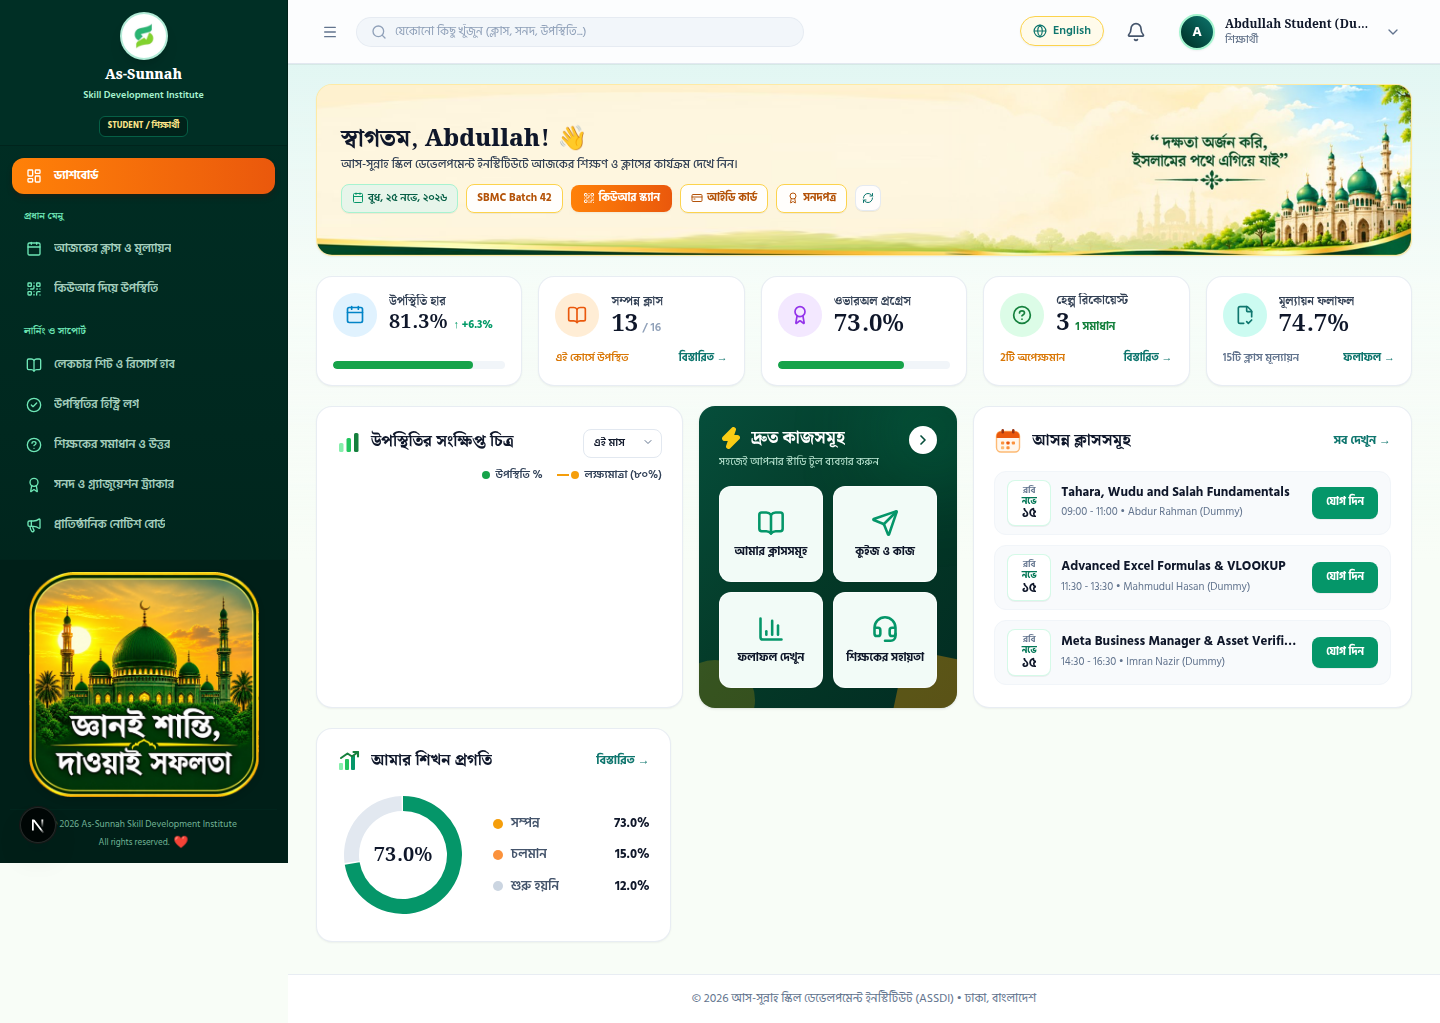
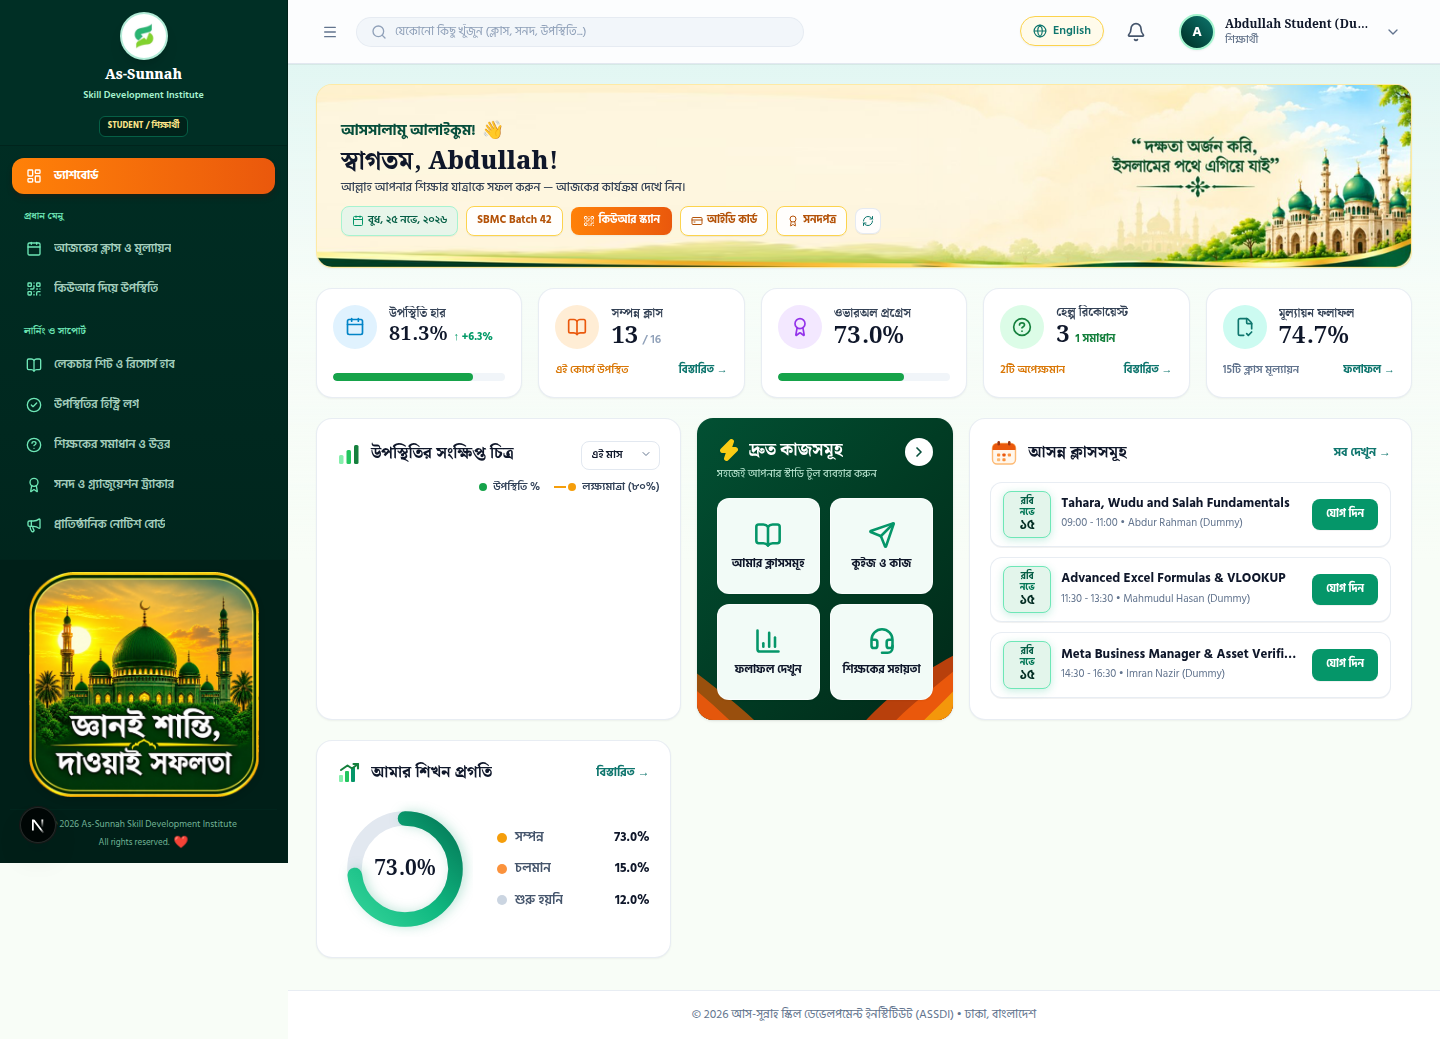
polish(student-ui): exact reference match for Assalamu Alaikum hero, Quick Actions orange curves, green date shadows, and glossy emerald donut

diff --git a/web/src/app/student/page.tsx b/web/src/app/student/page.tsx
@@ -47,9 +47,6 @@ import {
   Tooltip,
   ReferenceLine,
   LabelList,
-  PieChart,
-  Pie,
-  Cell,
 } from 'recharts';
 import WebQRScannerModal from '@/components/student/WebQRScannerModal';
 import StudentIdCardModal from '@/components/student/StudentIdCardModal';
@@ -700,8 +697,8 @@ export default function StudentPortalPage() {
 
   return (
     <div className="space-y-4 sm:space-y-5">
-      {/* Slim Islamic Modern Student Hero Welcome Card (Matching Reference Height) */}
-      <div className="relative rounded-2xl overflow-hidden shadow-xs border border-[#FDE68A]/70 bg-[#FEF6DF] min-h-[152px] lg:min-h-[172px] flex items-center">
+      {/* Slim Islamic Modern Student Hero Welcome Card (Matching Reference Height & Assalamu Alaikum Greeting) */}
+      <div className="relative rounded-2xl overflow-hidden shadow-xs border border-[#FDE68A]/70 bg-[#FEF6DF] min-h-[168px] lg:min-h-[184px] flex items-center">
         <Image
           src="/islamic-hero-banner-slim.png"
           alt="দক্ষতা অর্জন করি, ইসলামের পথে এগিয়ে যাই"
@@ -717,20 +714,22 @@ export default function StudentPortalPage() {
         />
 
         {/* Compact Left Content */}
-        <div className="relative z-10 px-5 py-4 sm:px-6 pb-5 lg:max-w-[62%] w-full">
-          <div className="flex items-center gap-2">
-            <h1 className="text-lg sm:text-xl lg:text-2xl font-extrabold text-[#002F25] tracking-tight font-serif leading-tight">
-              {isBangla ? 'স্বাগতম' : 'Welcome back'}, {profile?.full_name?.split(' ')[0] || user?.full_name?.split(' ')[0] || (isBangla ? 'শিক্ষার্থী' : 'Student')}!
-            </h1>
-            <span className="text-xl sm:text-2xl shrink-0" role="img" aria-label="wave">
+        <div className="relative z-10 px-5 py-4 sm:px-6 lg:max-w-[62%] w-full">
+          <p className="text-sm sm:text-[15px] font-extrabold text-[#064E3B] tracking-tight flex items-center gap-1.5 mb-0.5">
+            <span>{isBangla ? 'আসসালামু আলাইকুম!' : 'Assalamu Alaikum!'}</span>
+            <span className="text-base sm:text-lg" role="img" aria-label="wave">
               👋
             </span>
-          </div>
+          </p>
+
+          <h1 className="text-lg sm:text-xl lg:text-[25px] font-black text-[#0F172A] tracking-tight font-serif leading-tight">
+            {isBangla ? 'স্বাগতম' : 'Welcome back'}, {profile?.full_name?.split(' ')[0] || user?.full_name?.split(' ')[0] || (isBangla ? 'শিক্ষার্থী' : 'Student')}!
+          </h1>
 
           <p className="text-[11px] sm:text-xs text-[#334155] font-medium mt-0.5 leading-snug">
             {isBangla
-              ? 'আস-সুন্নাহ স্কিল ডেভেলপমেন্ট ইনস্টিটিউটে আজকের শিক্ষণ ও ক্লাসের কার্যক্রম দেখে নিন।'
-              : "Here's what's happening at As-Sunnah Skill Development Institute today."}
+              ? 'আল্লাহ আপনার শিক্ষার যাত্রাকে সফল করুন — আজকের কার্যক্রম দেখে নিন।'
+              : 'May Allah make your learning journey successful.'}
           </p>
 
           {/* Compact Single Strip: Date, Batch & Quick Actions */}
@@ -1184,12 +1183,28 @@ export default function StudentPortalPage() {
             </div>
           </div>
 
-          {/* 2. Quick Actions Dark Emerald Card */}
-          <div className="relative overflow-hidden rounded-2xl bg-gradient-to-br from-[#064E3B] via-[#043927] to-[#022C22] p-4 sm:p-5 text-white shadow-sm flex flex-col justify-between">
-            {/* Subtle Gold & Emerald Ambient Accents */}
-            <div className="pointer-events-none absolute -top-10 -right-10 w-32 h-32 rounded-full bg-emerald-400/15 blur-2xl" aria-hidden="true" />
-            <div className="pointer-events-none absolute -bottom-7 -right-5 w-20 h-20 rounded-tl-[26px] bg-amber-500/35 rotate-12" aria-hidden="true" />
-            <div className="pointer-events-none absolute -bottom-8 -left-6 w-20 h-20 rounded-full bg-amber-400/20" aria-hidden="true" />
+          {/* 2. Quick Actions Deep Forest Green Card with Vivid Dark-Orange Corner Curves */}
+          <div className="relative overflow-hidden rounded-2xl bg-gradient-to-br from-[#025033] via-[#013C24] to-[#012918] p-4 sm:p-5 text-white shadow-sm flex flex-col justify-between">
+            {/* Reference-Matched Bottom-Right & Bottom-Left Deep Orange Corner Waves */}
+            <svg
+              className="pointer-events-none absolute -bottom-1 -right-1 w-28 h-24"
+              viewBox="0 0 120 100"
+              fill="none"
+              aria-hidden="true"
+            >
+              <path d="M120 100H20C48 70 72 52 120 26V100Z" fill="#C2410C" fillOpacity="0.95" />
+              <path d="M120 100H52C74 78 96 62 120 42V100Z" fill="#EA580C" />
+              <path d="M120 100H82C96 86 108 75 120 62V100Z" fill="#F59E0B" fillOpacity="0.9" />
+            </svg>
+            <svg
+              className="pointer-events-none absolute -bottom-1 -left-1 w-24 h-20"
+              viewBox="0 0 100 84"
+              fill="none"
+              aria-hidden="true"
+            >
+              <path d="M0 84H68C48 64 26 48 0 28V84Z" fill="#B45309" fillOpacity="0.85" />
+              <path d="M0 84H42C28 70 14 58 0 46V84Z" fill="#EA580C" fillOpacity="0.92" />
+            </svg>
 
             <div className="relative z-10 flex items-start justify-between gap-2">
               <div className="min-w-0">
@@ -1303,17 +1318,17 @@ export default function StudentPortalPage() {
                   return (
                     <div
                       key={sess.id}
-                      className="flex items-center justify-between gap-2.5 bg-[#F8FAFC] hover:bg-[#F0FDF4]/70 border border-slate-100 rounded-xl px-3 py-2 transition-colors"
+                      className="flex items-center justify-between gap-2.5 bg-white hover:bg-[#F0FDF4]/60 border border-slate-200/80 shadow-2xs rounded-xl px-3 py-2 transition-colors"
                     >
-                      {/* Date Badge */}
-                      <div className="w-11 shrink-0 rounded-lg bg-white border border-emerald-100/90 py-1 text-center leading-[1.15] shadow-2xs">
-                        <span className="block text-[9.5px] font-semibold text-slate-500">
+                      {/* Reference-Matched Mint-Green Date Card with Green Border & Shadow */}
+                      <div className="w-12 shrink-0 rounded-lg bg-[#E3F5EB] border border-[#6EE7B7] py-1 text-center leading-[1.15] shadow-[0_2px_8px_rgba(16,185,129,0.24)]">
+                        <span className="block text-[9.5px] font-bold text-[#065F46]">
                           {badge.weekday}
                         </span>
                         <span className="block text-[9.5px] font-bold text-[#047857]">
                           {badge.month}
                         </span>
-                        <span className="block text-[13px] font-black text-[#0F172A]">
+                        <span className="block text-[13.5px] font-black text-[#022C22]">
                           {badge.day}
                         </span>
                       </div>
@@ -1382,48 +1397,52 @@ export default function StudentPortalPage() {
             </div>
 
             <div className="flex items-center justify-between gap-4 sm:gap-6 mt-4 flex-1">
-              {/* Donut Ring Chart */}
-              <div className="relative w-[132px] h-[132px] shrink-0 flex items-center justify-center">
-                <PieChart width={132} height={132}>
-                  <Pie
-                    data={[
-                      {
-                        name: isBangla ? 'সম্পন্ন' : 'Completed',
-                        value: learningProgressBreakdown.completed,
-                        color: '#059669',
-                      },
-                      {
-                        name: isBangla ? 'চলমান ও বাকি' : 'Remaining',
-                        value: Math.max(0, 100 - learningProgressBreakdown.completed),
-                        color: '#E2E8F0',
-                      },
-                    ]}
-                    dataKey="value"
-                    cx="50%"
-                    cy="50%"
-                    startAngle={90}
-                    endAngle={-270}
-                    innerRadius={44}
-                    outerRadius={59}
-                    paddingAngle={learningProgressBreakdown.completed < 100 ? 1.5 : 0}
-                    stroke="none"
-                    isAnimationActive={false}
-                  >
-                    <Cell fill="#059669" />
-                    <Cell fill="#E2E8F0" />
-                  </Pie>
-                  <Tooltip
-                    formatter={(val: any, name: any) => [`${Number(val).toFixed(1)}%`, name]}
-                    contentStyle={{
-                      borderRadius: '10px',
-                      border: '1px solid #E2E8F0',
-                      fontSize: '11px',
-                      padding: '6px 10px',
-                    }}
-                  />
-                </PieChart>
+              {/* Reference-Matched Glossy Emerald Gradient Donut Ring */}
+              <div
+                className="relative w-[136px] h-[136px] shrink-0 flex items-center justify-center"
+                title={`${isBangla ? 'সম্পন্ন:' : 'Completed:'} ${learningProgressBreakdown.completed.toFixed(1)}%`}
+              >
+                {(() => {
+                  const r = 52;
+                  const circ = 2 * Math.PI * r;
+                  const dashOffset = circ * (1 - learningProgressBreakdown.completed / 100);
+                  return (
+                    <svg className="w-full h-full" viewBox="0 0 140 140" aria-hidden="true">
+                      <defs>
+                        <linearGradient id="studentLearningDonutGrad" x1="0%" y1="0%" x2="100%" y2="100%">
+                          <stop offset="0%" stopColor="#34D399" />
+                          <stop offset="45%" stopColor="#10B981" />
+                          <stop offset="100%" stopColor="#047857" />
+                        </linearGradient>
+                      </defs>
+                      {/* Light Slate Track */}
+                      <circle
+                        cx="70"
+                        cy="70"
+                        r={r}
+                        fill="none"
+                        stroke="#E2E8F0"
+                        strokeWidth="15"
+                      />
+                      {/* Glossy Emerald Progress Arc with Rounded Ends */}
+                      <circle
+                        cx="70"
+                        cy="70"
+                        r={r}
+                        fill="none"
+                        stroke="url(#studentLearningDonutGrad)"
+                        strokeWidth="15"
+                        strokeDasharray={circ}
+                        strokeDashoffset={dashOffset}
+                        strokeLinecap="round"
+                        transform="rotate(-90 70 70)"
+                        style={{ filter: 'drop-shadow(0 3px 6px rgba(5, 150, 105, 0.25))' }}
+                      />
+                    </svg>
+                  );
+                })()}
                 <div className="pointer-events-none absolute inset-0 flex flex-col items-center justify-center">
-                  <span className="text-[20px] font-black text-[#0F172A] tracking-tight font-serif">
+                  <span className="text-[21px] font-black text-[#0F172A] tracking-tight font-serif">
                     {learningProgressBreakdown.completed.toFixed(1)}%
                   </span>
                 </div>
